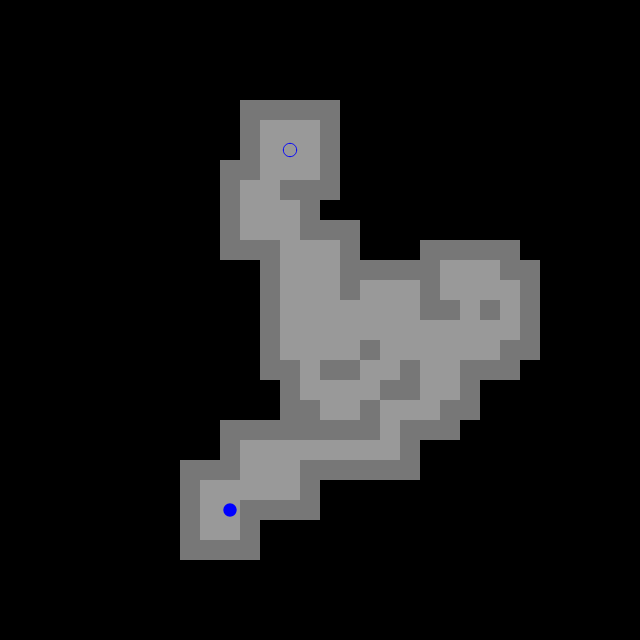
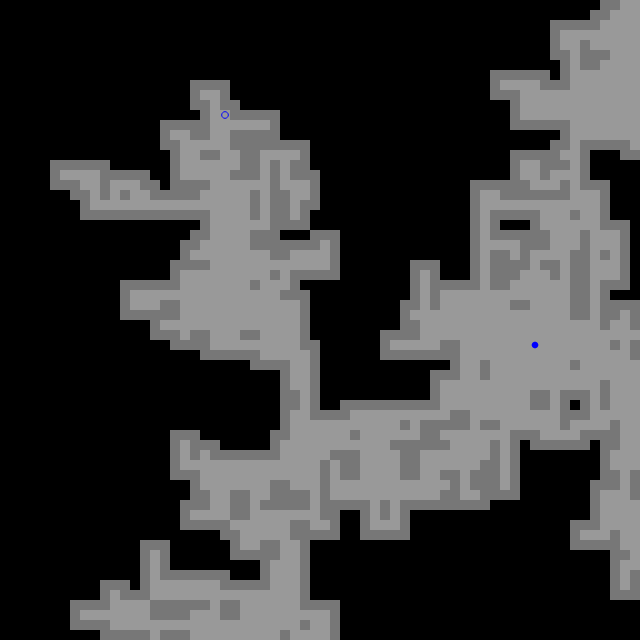
Update the maze image to reflect the new algorithm parameters

diff --git a/map.js b/map.js
@@ -15,9 +15,9 @@ class Map {
         }
 
         this.floorMakers = [];
-        this.turnResistance = 0.2;
-        this.maxFloorMakerCount = 5;
-        this.floorMakerSpawnProbability = 0.5;
+        this.turnResistance = 0.4;
+        this.maxFloorMakerCount = 20;
+        this.floorMakerSpawnProbability = 0.8;
         this.generate(maxFloorCount, this.maxFloorMakerCount, this.turnResistance, this.floorMakerSpawnProbability);
     }
 

diff --git a/game.js b/game.js
@@ -5,7 +5,7 @@ class Game {
     }
 
     newGame() {
-        this.map = new Map({ width: 64, height: 64, maxFloorCount: 256 });
+        this.map = new Map({ width: 64, height: 64, maxFloorCount: 1024 });
         this.player = new Vector(this.map.entryPoint.x, this.map.entryPoint.y);
     }
 
